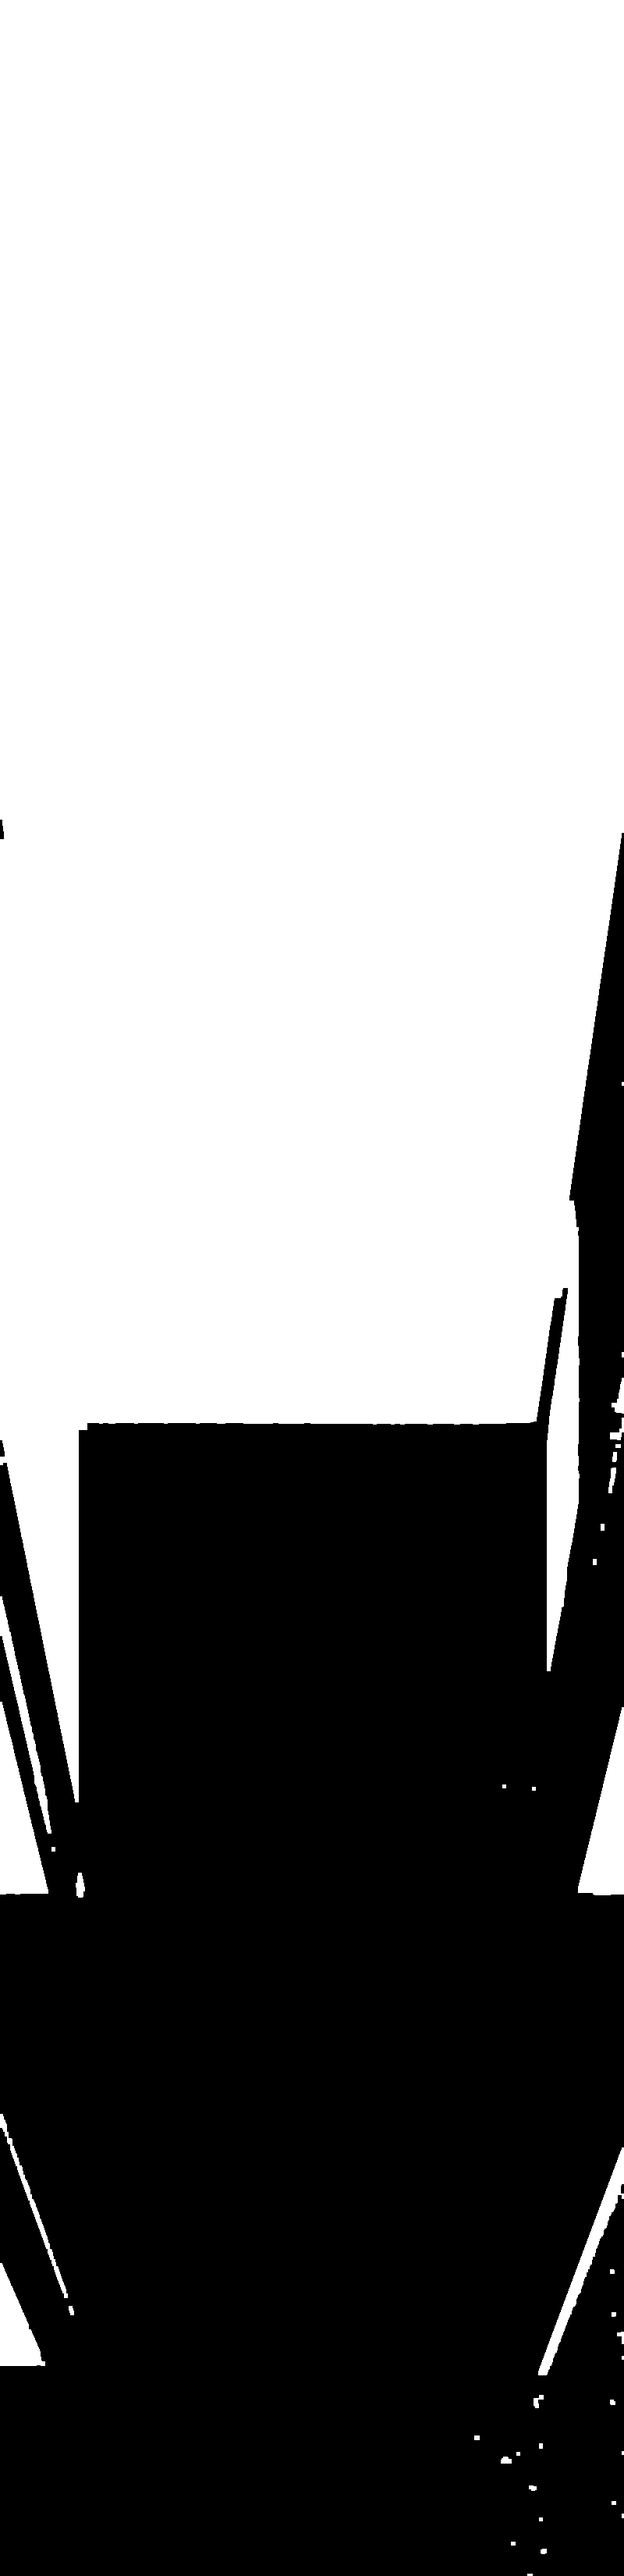
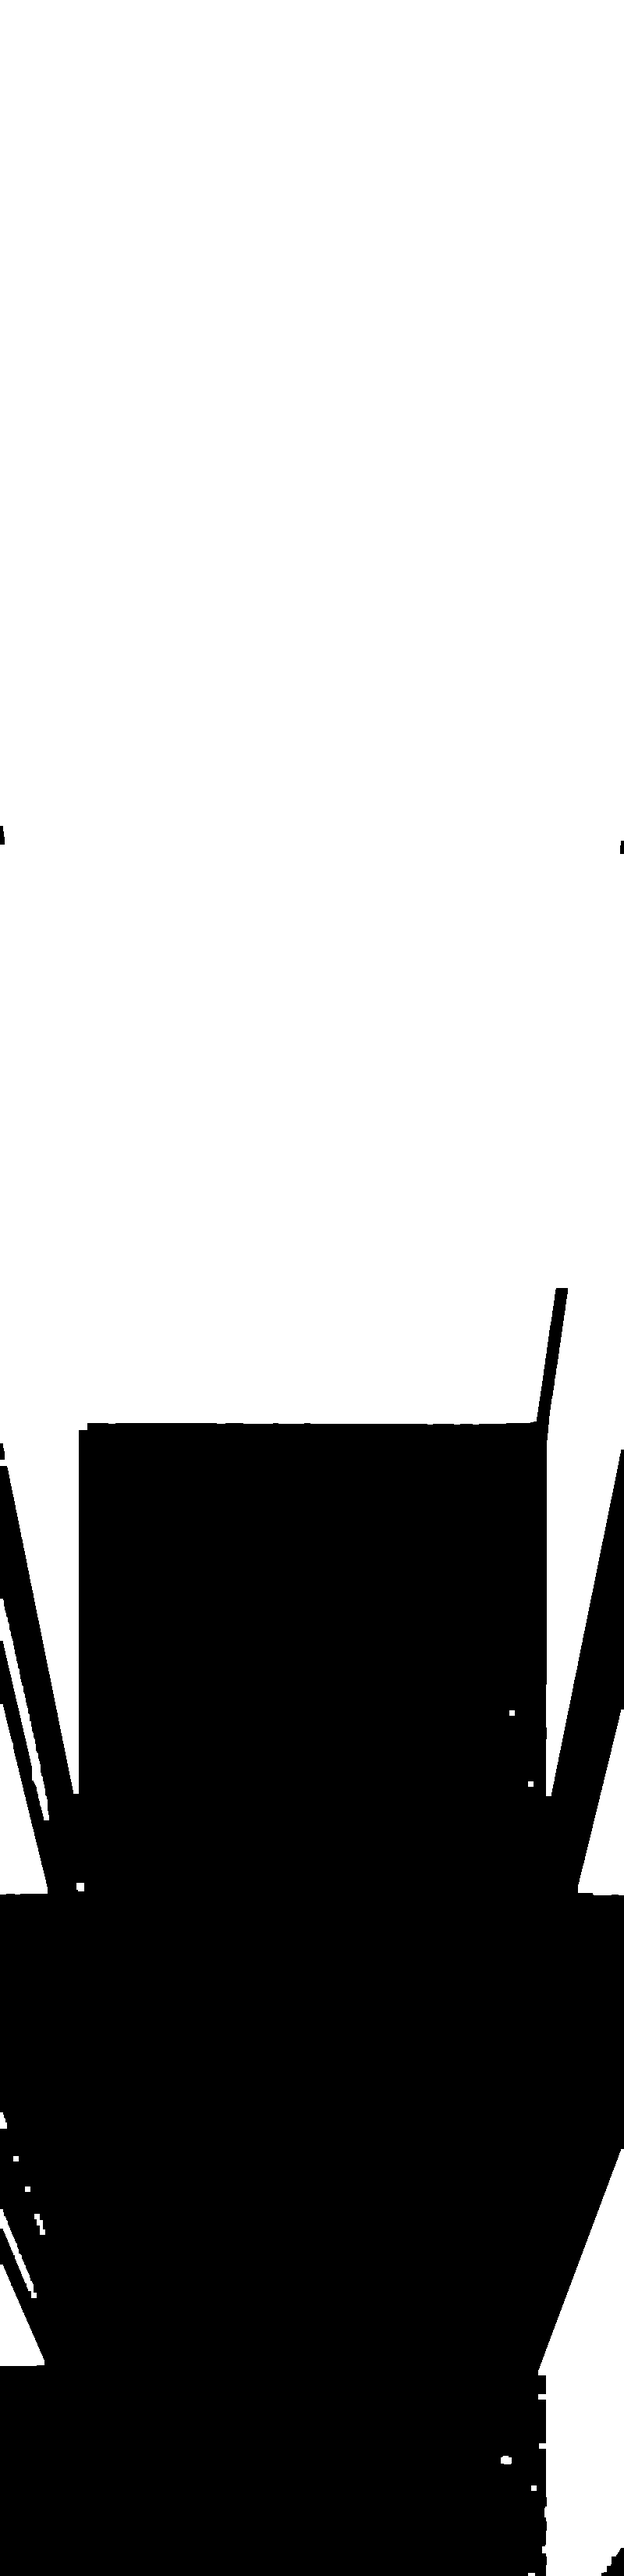
Homography results improved

Changed region(s): [[0.875, 0.3121, 1.0, 0.7179], [0.8438, 0.8427, 1.0, 1.0], [0.0, 0.8115, 0.0625, 0.9052]]

diff --git a/Codigo/labyrinth.py b/Codigo/labyrinth.py
@@ -176,7 +176,12 @@ class Labyrinth():
         self.goToPoi()
 
     def updateFromImage():
-        cv2.imread("Test1.png")
+        imgs=["Perspective", "Test1"]
+        input_path = f"imagenesCénitales/{imgs[1]}.png"
+        
+        cv2.imread(input_path)
+
+        
 
 
 def start():
